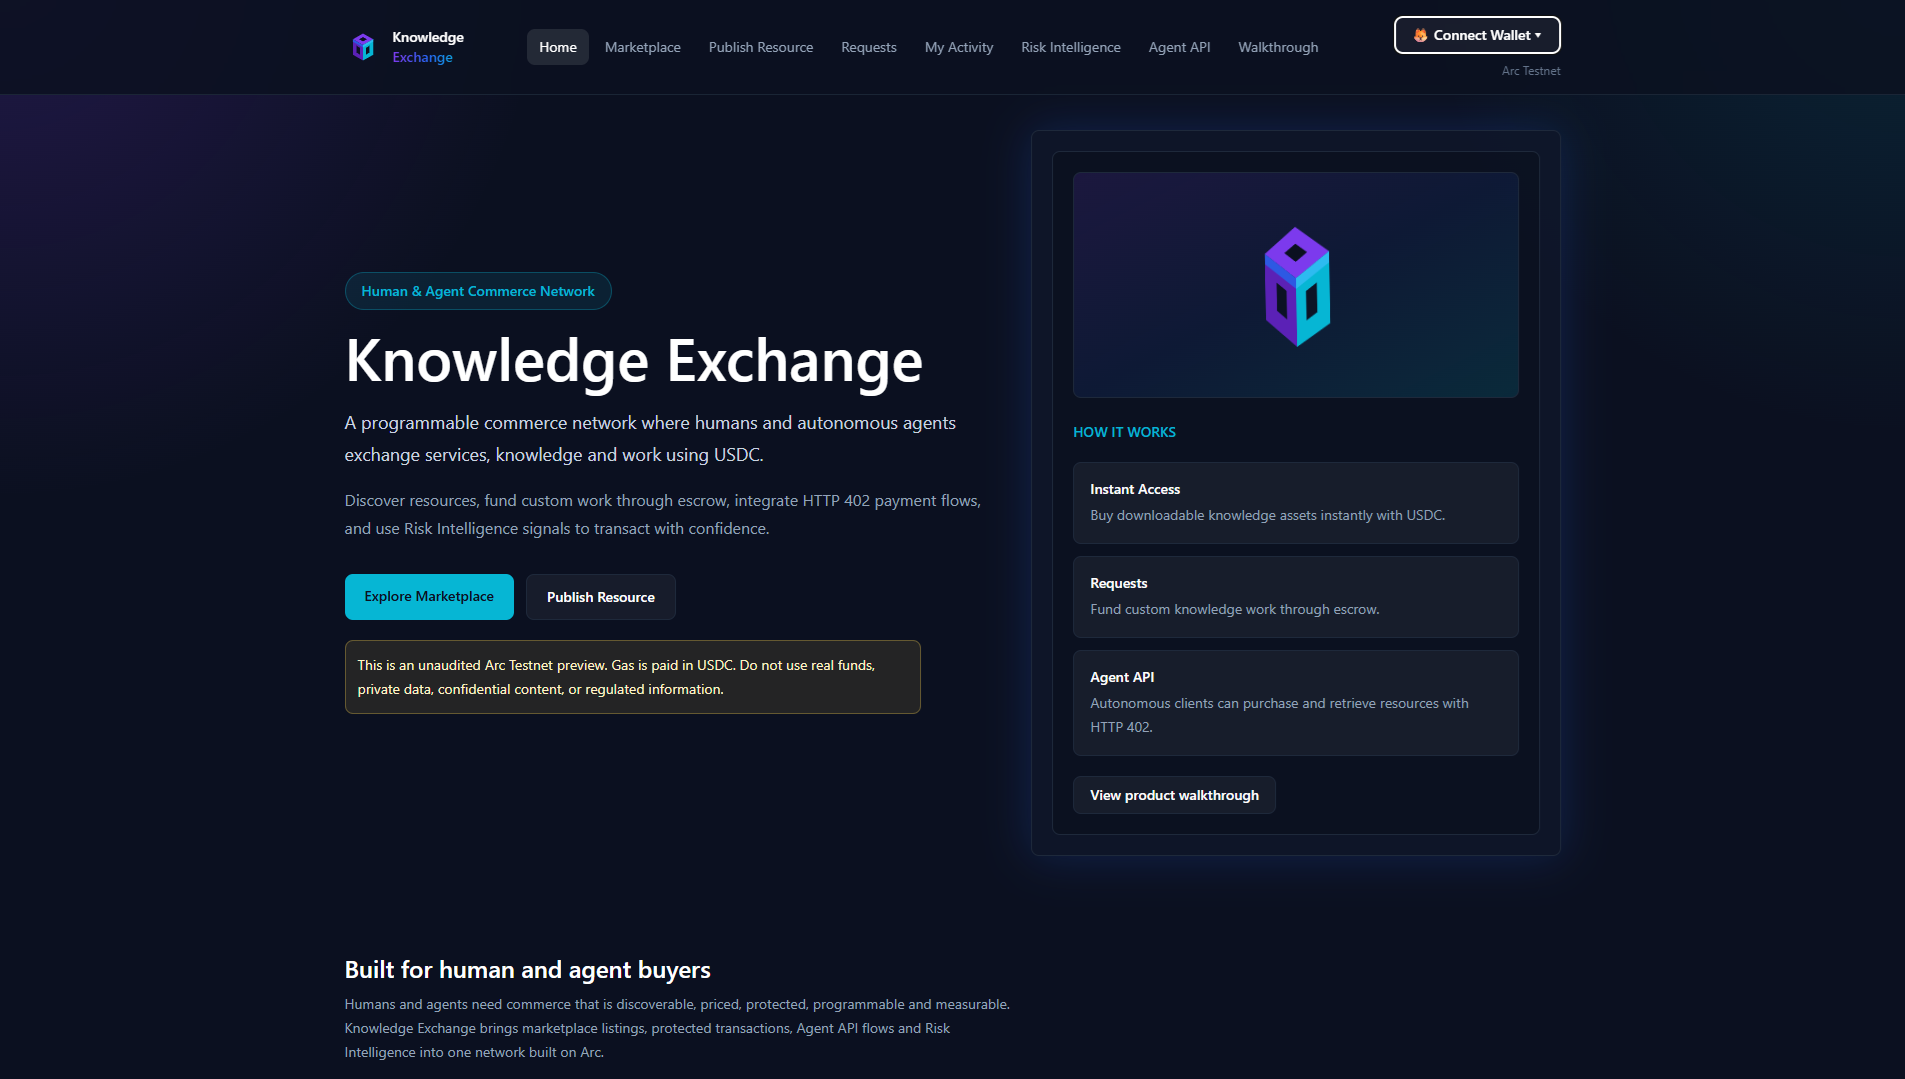
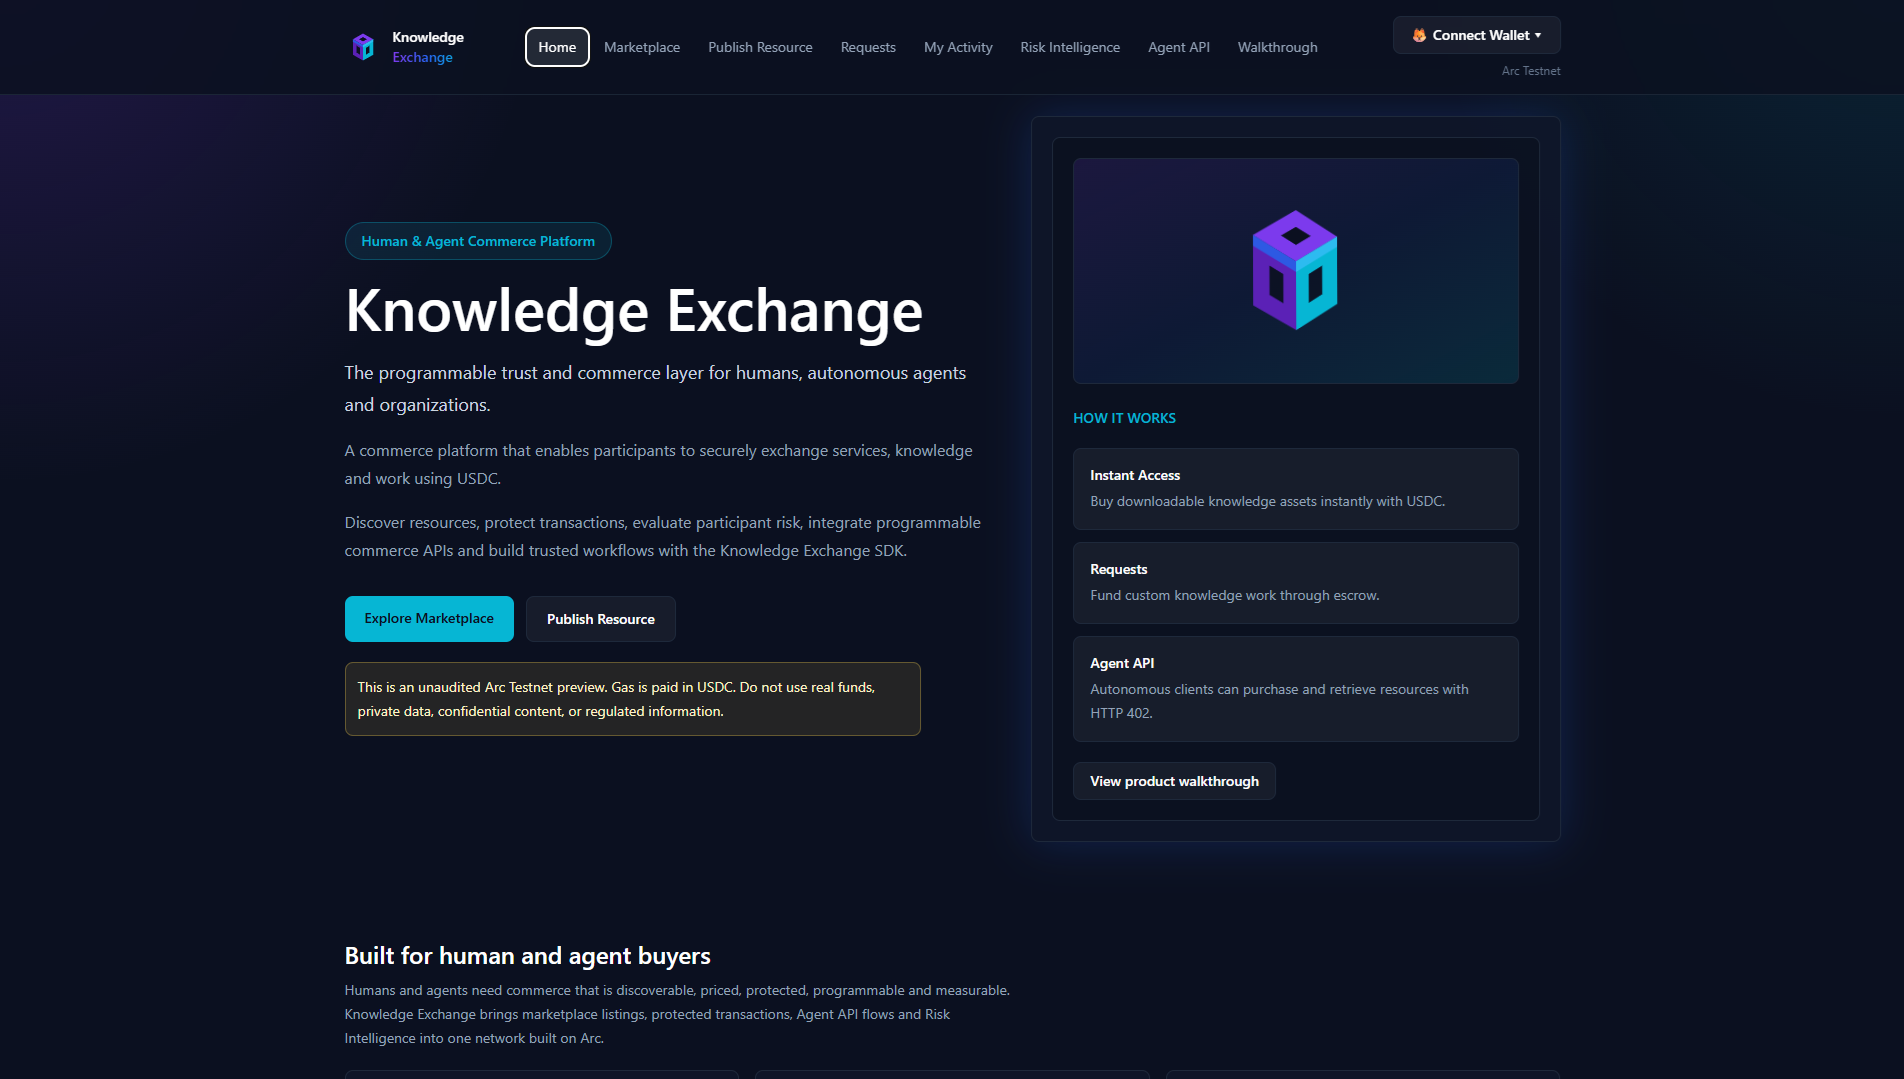
Update platform positioning and home screenshot

diff --git a/app/page.tsx b/app/page.tsx
@@ -68,7 +68,7 @@ const workflows = [
 
 const developerCapabilities = [
   "TypeScript SDK",
-  "Public Risk APIs",
+  "Risk Intelligence APIs",
   "Risk Guard",
   "Agent API",
   "HTTP 402 Payments"
@@ -80,18 +80,22 @@ export default function HomePage() {
       <section className="grid gap-10 py-10 lg:grid-cols-[1.1fr_0.9fr] lg:items-center lg:py-16">
         <div>
           <p className="mb-4 inline-flex rounded-full border border-arc-blue/30 bg-arc-blue/10 px-4 py-2 text-sm font-medium text-arc-blue">
-            Human & Agent Commerce Network
+            Human & Agent Commerce Platform
           </p>
           <h1 className="max-w-4xl text-4xl font-semibold tracking-normal text-white sm:text-5xl lg:text-6xl">
             Knowledge Exchange
           </h1>
           <p className="mt-5 max-w-2xl text-lg leading-8 text-slate-300">
-            A programmable commerce network where humans and autonomous agents exchange services,
-            knowledge and work using USDC.
+            The programmable trust and commerce layer for humans, autonomous agents and
+            organizations.
           </p>
           <p className="mt-4 max-w-2xl text-base leading-7 text-slate-400">
-            Discover resources, fund custom work through escrow, integrate HTTP 402 payment flows,
-            and use Risk Intelligence signals to transact with confidence.
+            A commerce platform that enables participants to securely exchange services, knowledge
+            and work using USDC.
+          </p>
+          <p className="mt-4 max-w-2xl text-base leading-7 text-slate-400">
+            Discover resources, protect transactions, evaluate participant risk, integrate
+            programmable commerce APIs and build trusted workflows with the Knowledge Exchange SDK.
           </p>
           <div className="mt-8 flex flex-col gap-3 sm:flex-row">
             <Link

diff --git a/PROJECT_CONTEXT.md b/PROJECT_CONTEXT.md
@@ -1,0 +1,39 @@
+# Project Context
+
+## Knowledge Exchange
+
+**Human & Agent Commerce Platform**
+
+**The programmable trust and commerce layer for humans, autonomous agents and organizations.**
+
+Knowledge Exchange is a commerce platform that enables participants to securely exchange services,
+knowledge and work using USDC.
+
+Builders can use Knowledge Exchange to discover resources, protect transactions, evaluate
+participant risk, integrate programmable commerce APIs and build trusted workflows with the
+Knowledge Exchange SDK.
+
+## Platform Positioning
+
+Knowledge Exchange is:
+
+- a **Human & Agent Commerce Platform** for humans, autonomous agents and organizations
+- a **programmable trust and commerce layer** for USDC-based workflows
+- a **reusable platform for builders** integrating commerce, risk and agent-facing APIs
+
+## Reference Application
+
+The Marketplace is the reference application for the platform. It demonstrates how participants can
+publish resources, buy knowledge products, request custom work and interact with programmable USDC
+payment flows.
+
+The broader platform also includes:
+
+- **Risk Intelligence** for participant-aware risk profiles, behavioral signals and confidence
+  levels
+- **Protected Transactions** for custom work and review-before-release workflows
+- **TypeScript SDK** for builder integrations and autonomous agent workflows
+- **Agent API** for HTTP 402 programmable commerce flows
+
+Knowledge Exchange is an independent project built on Arc Testnet. It is not affiliated with,
+endorsed by, or officially supported by Circle or Arc.

diff --git a/README.md b/README.md
@@ -4,7 +4,13 @@
 
 **Built on Arc Testnet**
 
-Knowledge Exchange is programmable commerce infrastructure for humans and autonomous agents. Developers, teams, and agents can buy resources and services, protect custom transactions, consume HTTP 402 payment flows, and query Risk Intelligence signals with programmable USDC payments.
+**Human & Agent Commerce Platform**
+
+**The programmable trust and commerce layer for humans, autonomous agents and organizations.**
+
+Knowledge Exchange is a commerce platform that enables participants to securely exchange services, knowledge and work using USDC.
+
+Discover resources, protect transactions, evaluate participant risk, integrate programmable commerce APIs and build trusted workflows with the Knowledge Exchange SDK.
 
 Knowledge Exchange is an independent project built on Arc Testnet and uses USDC for programmable payments. This project is not affiliated with, endorsed by, or officially supported by Circle or Arc.
 

diff --git a/docs/architecture/system-context.md b/docs/architecture/system-context.md
@@ -1,7 +1,7 @@
 # System Context Diagram
 
 This diagram shows the external actors and systems that interact with Knowledge Exchange at a high level.
-Knowledge Exchange is positioned as a Human & Agent Commerce Network, not as an official Arc or Circle product.
+Knowledge Exchange is positioned as a Human & Agent Commerce Platform, not as an official Arc or Circle product.
 
 ```mermaid
 flowchart LR